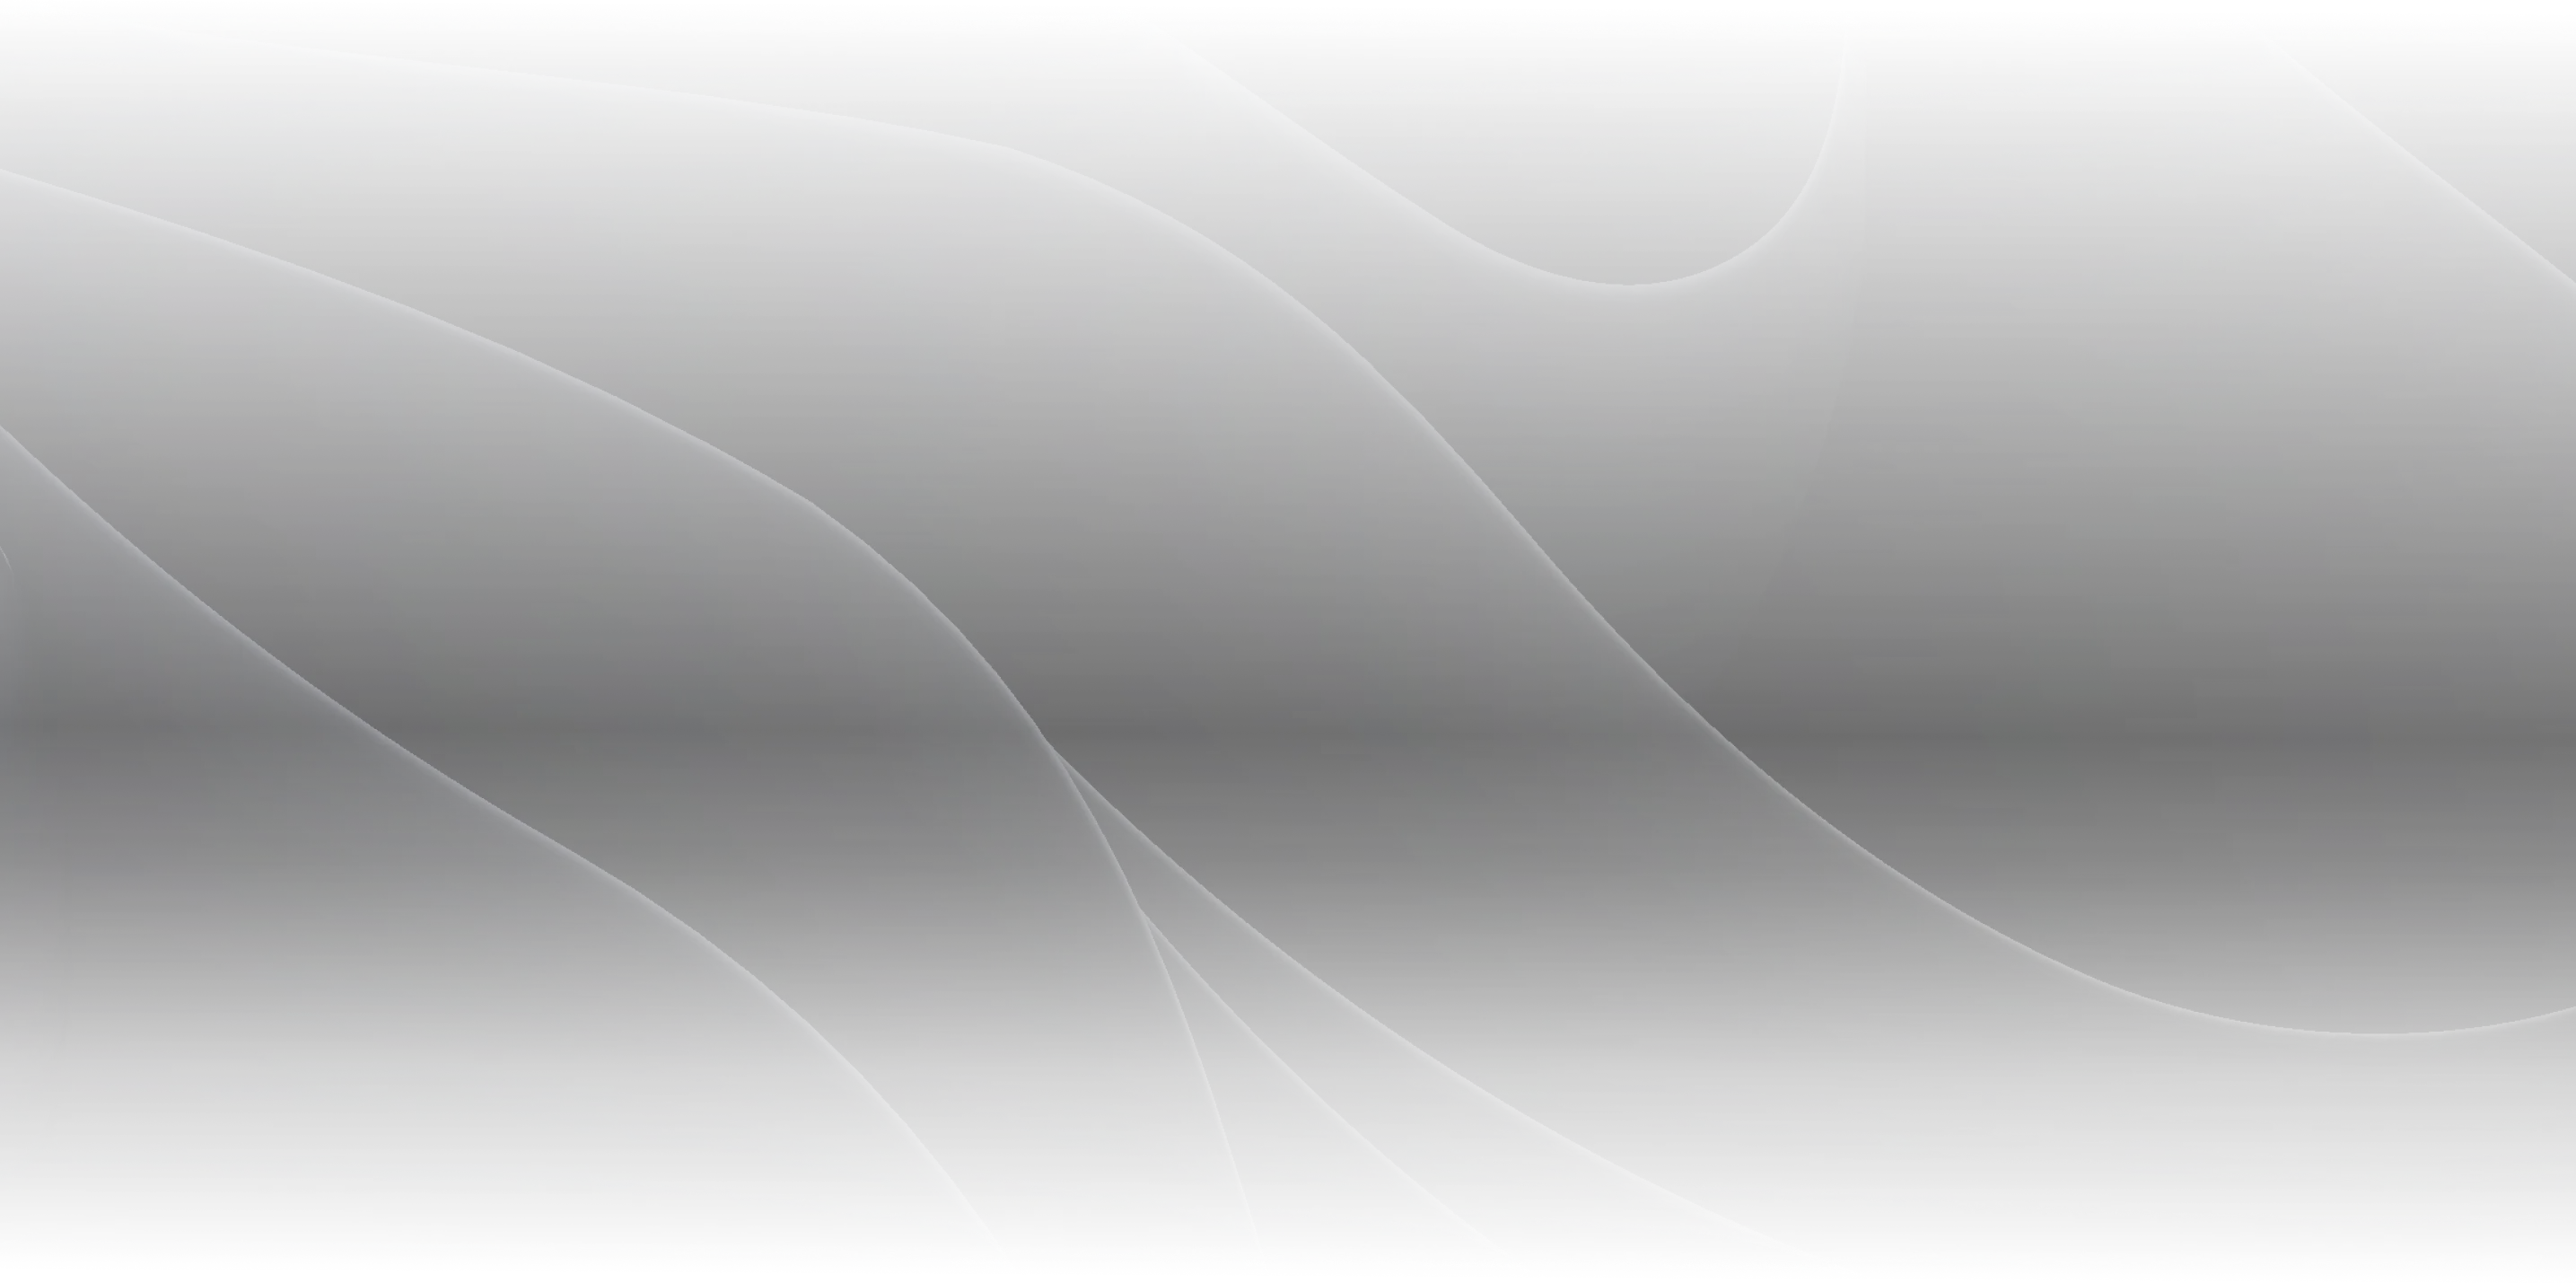
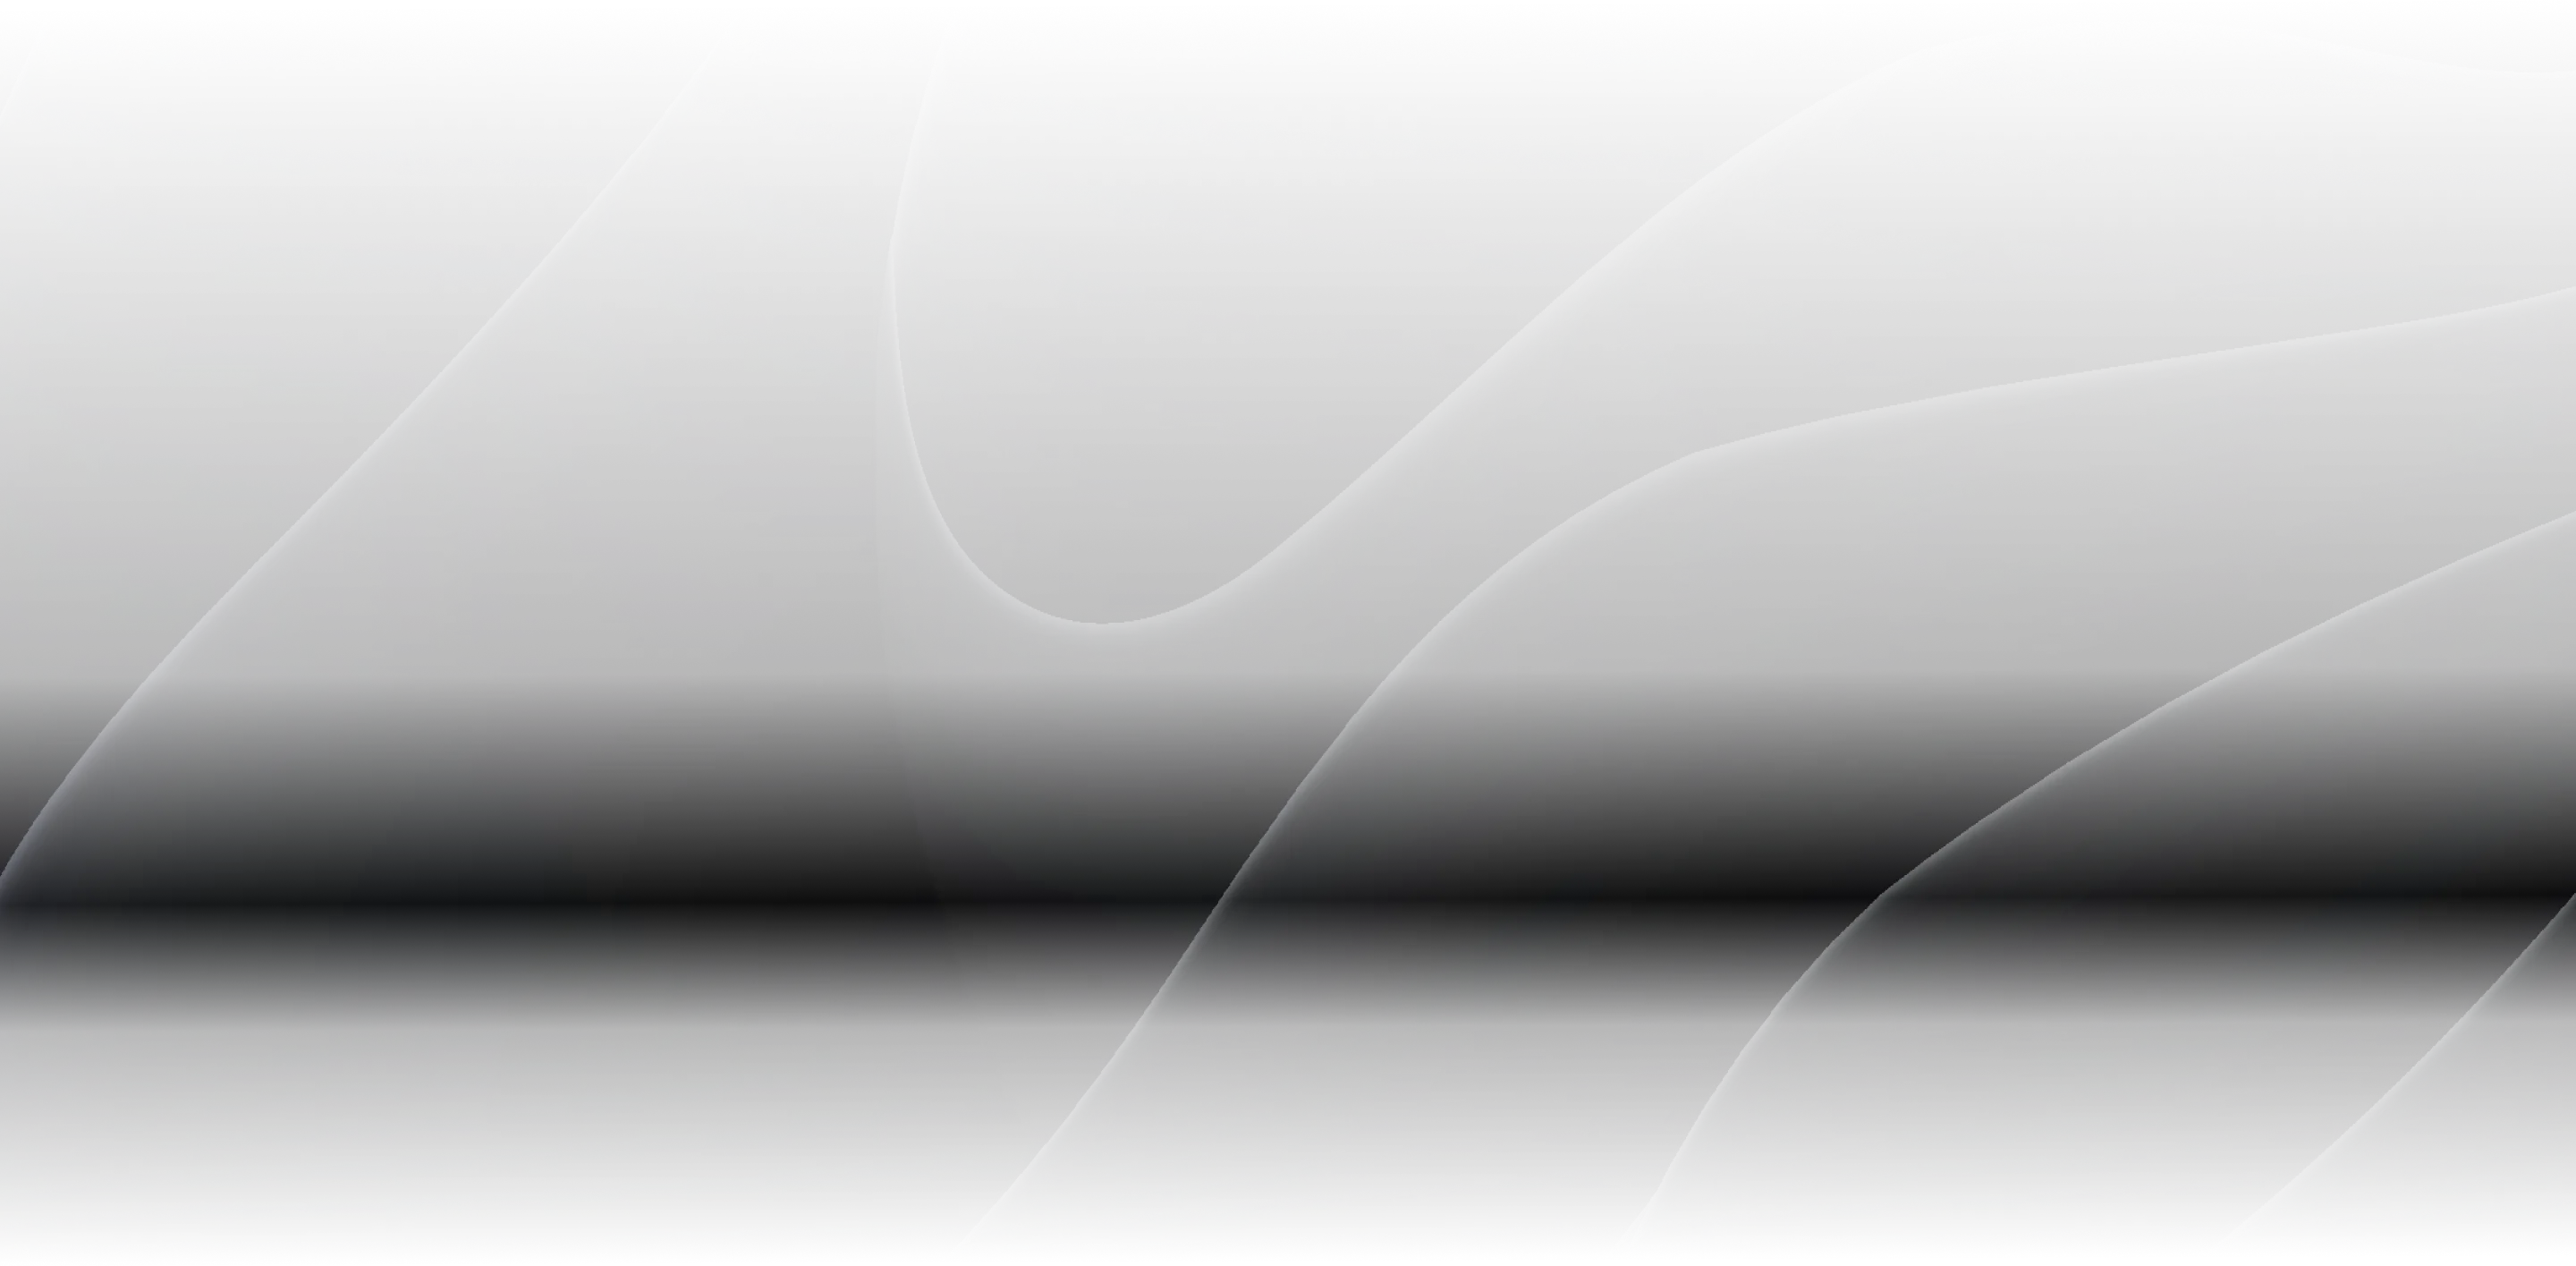
Fixes

diff --git a/ehc-management/css/main.css b/ehc-management/css/main.css
@@ -1,7 +1,7 @@
 @charset "UTF-8";
 /*
   Theme Name: X-Project WP
-  Theme URI: https://github.com/evgeniy-vashchuk/lfg-equities
+  Theme URI: https://github.com/evgeniy-vashchuk/ehc-management
   Description: Starter WordPress Theme
   Version: 1.0.0
   Author: Evgeniy Vashchuk

diff --git a/ehc-management/index.html b/ehc-management/index.html
@@ -441,7 +441,7 @@
         <!-- SECTION -->
         <section class="section">
           <div class="section__bg type-up offset-sm">
-            <img class="lazy js-lazy w-100" src="img/lazy-placeholder.png" alt="Image" data-src="img/webp/section-bg-2.webp">
+            <img class="lazy js-lazy w-100" src="img/lazy-placeholder.png" alt="Image" data-src="img/webp/section-bg-3.webp">
           </div>
           <div class="section__content">
             <div class="container">